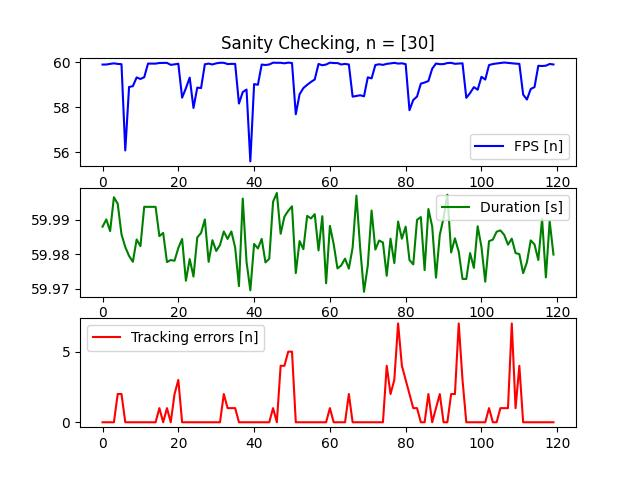
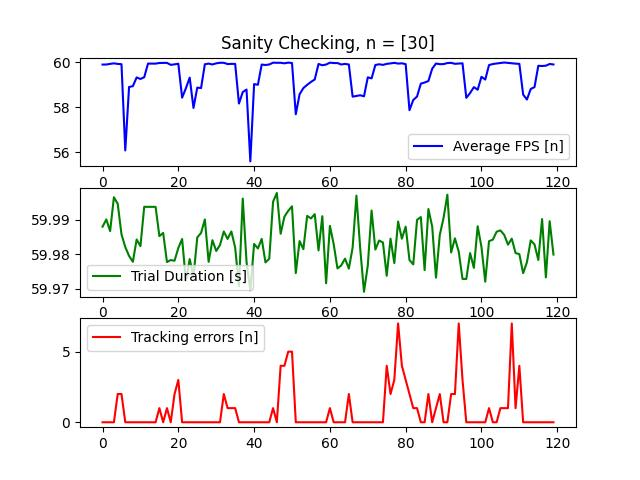
changed whiskers to [0, 100]

Changed region(s): [[0.125, 0.5312, 0.4062, 0.625], [0.6875, 0.4062, 0.9062, 0.4688], [0.625, 0.2812, 0.875, 0.3438]]

diff --git a/plot.py b/plot.py
@@ -23,9 +23,9 @@ for p in Participants:
 
 fig1, ax1 = plt.subplots(3)
 ax1[0].plot(fpss, 'b')
-ax1[0].legend(["FPS [n]"])
+ax1[0].legend(["Average FPS [n]"])
 ax1[1].plot(times, 'g')
-ax1[1].legend(["Duration [s]"])
+ax1[1].legend(["Trial Duration [s]"])
 ax1[2].plot(track_err,'r')
 ax1[2].legend(["Tracking errors [n]"])
 ax1[0].set_title('Sanity Checking, n = [{}]'.format(2*5*3))
@@ -72,35 +72,35 @@ for c in Conditions[1:]:
     input_depth[c] = Depth
 
 fig2, ax2 = plt.subplots()
-ax2.boxplot(failed_grabs)
+ax2.boxplot(failed_grabs, whis=[0, 100])
 ax2.set_title('Failed Grabs [Average n]')
 ax2.set_xlabel('Conditions')
 ax2.set_xticklabels(['B','C','D','E','F'])
 fig2.savefig("plots/failed_grabs.jpg")
 
 fig3, ax3 = plt.subplots()
-ax3.boxplot(correct_grabs)
+ax3.boxplot(correct_grabs, whis=[0, 100])
 ax3.set_title('Correct Grabs [Average n]')
 ax3.set_xticklabels(['B','C','D','E','F'])
 ax3.set_xlabel('Conditions')
 fig3.savefig("plots/correct_grabs.jpg")
 
 fig4, ax4 = plt.subplots()
-ax4.boxplot(average_velocity)
+ax4.boxplot(average_velocity, whis=[0, 100])
 ax4.set_title('Average Velocity [m/s]')
 ax4.set_xlabel('Conditions')
 ax4.set_xticklabels(['B','C','D','E','F'])
 fig4.savefig("plots/average_velocity.jpg")
 
 fig5, ax5 = plt.subplots()
-ax5.boxplot(input_depth)
+ax5.boxplot(input_depth, whis=[0, 100])
 ax5.set_title('Input depth [m]')
 ax5.set_xlabel('Conditions')
 ax5.set_xticklabels(['B','C','D','E','F'])
 fig5.savefig("plots/input_depth.jpg")
 
 fig6, ax6 = plt.subplots()
-ax6.boxplot(grab_attempts)
+ax6.boxplot(grab_attempts, whis=[0, 100])
 ax6.set_title('grab_attempts [Average n]')
 ax6.set_xticklabels(['B','C','D','E','F'])
 ax6.set_xlabel('Conditions')
